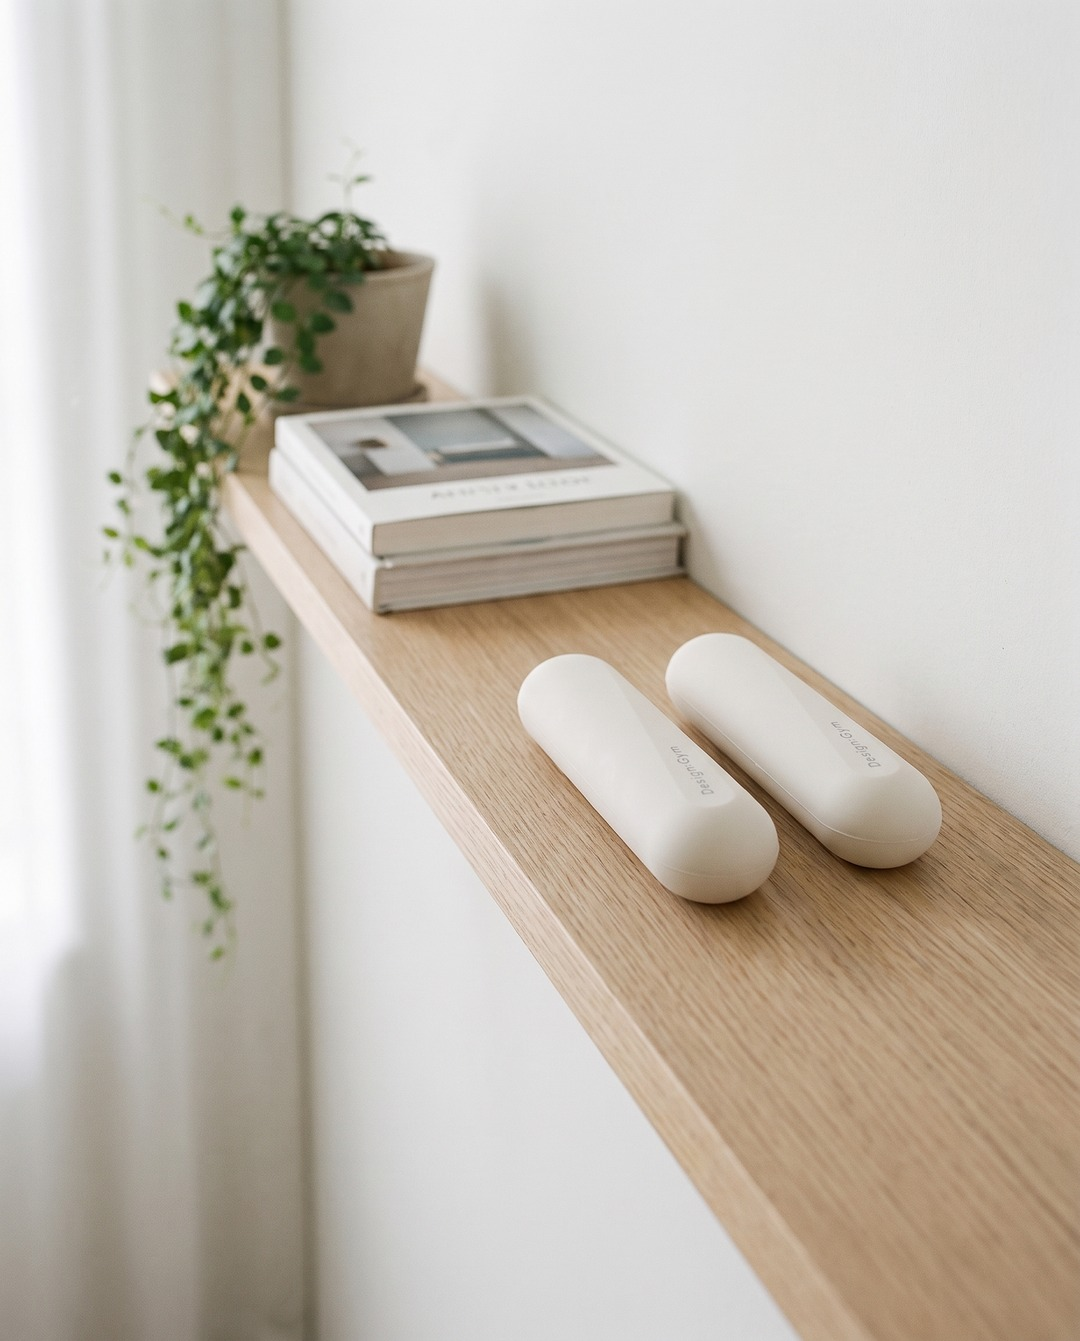
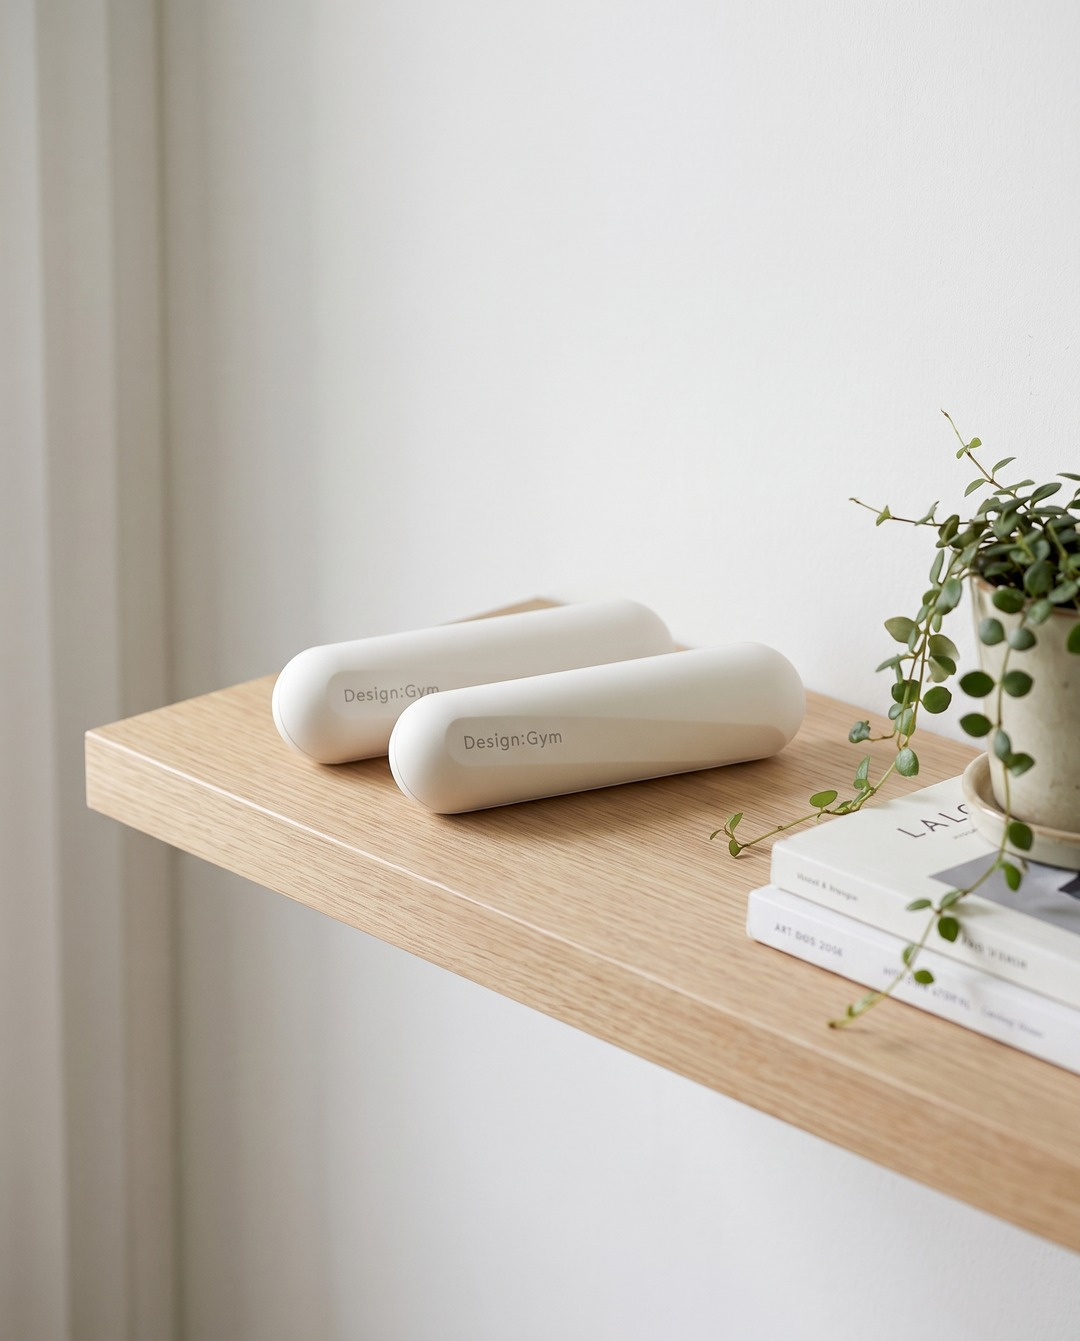
🎨 2026-09-14 월/화/금 이미지 교체 + 캡션 전면 교체
이미지 (사장님 반려 반영)
- 월: 등지름 캡슐형으로 재생성. 끝단이 부풀고 가운데가 잘록해지는
  뼈다귀 실루엣을 막으려고 "볼륨을 키워라" 대신 "4.5cm 단면이
  처음부터 끝까지 동일한 원기둥"으로 형상을 하나로 못박았다.
- 화: 매트 쪼개짐 해소. 셋째 블롭이 회보라 대신 하늘색으로 밀려
  나오던 것도 교정(실측 대조: 실물 156,146,155 / 오생성 174,186,190).
  로고가 찍힌 끝단은 크롭으로 제외.
- 금: 다운독. 발 프레임 이탈·누드톤 의상 위반 해소, 매트 끝의
  가짜 워드마크는 국소 리터치로 제거.

매트 브랜딩 규칙 변경
실물 매트에는 워드마크가 인쇄돼 있지만, 생성 모델에 그리게 하면
우리 로고가 아닌 엉뚱한 마크를 만들어 낸다. 지어낸 마크는 없느니만
못하므로 mat_logo_offframe 규칙으로 로고가 있는 끝단을 아예 프레임
밖으로 빼고, 화면 안에는 글자를 한 자도 두지 않는다.

색 보정
등록 제품(Element)이라도 색이 이웃 색조로 밀린다. 무늬는 Element에
맡기되 COLOUR CHECK 한 줄로 색만 다시 못박는다.

캡션
주차 오프셋 회전을 이번 주 5일치에 적용 — 기존 문구와 전부 다르다.

크레딧 20 사용 (최초 5장 10 + 재생성 10), 잔액 743.37

diff --git a/weekly_generate.py b/weekly_generate.py
@@ -59,6 +59,11 @@ def build_prompt(lib, product_key, scene_key):
                   "artwork, colours, proportions and thickness must match the reference product photograph "
                   "precisely. Do not invent a different print or a different colourway.",
                   "THE MAT: " + sh["mat_body"] if p["kind"] == "mat" else ""]
+        # 등록 제품이라도 색이 이웃 색조로 밀려 나오는 일이 있다(2026-09-14: 잿빛 보라 블롭이
+        # 하늘색으로 나왔다). 무늬는 Element에 맡기고, 색만 한 줄로 다시 못박는다.
+        if p["kind"] == "mat" and p.get("spec"):
+            parts += ["COLOUR CHECK - the printed artwork must read exactly as follows, with no shape or "
+                      "colour substituted: " + p["spec"]]
     elif p["kind"] == "mat":
         parts += ["THE MAT: " + sh["mat_body"], sh["mat_artwork_rule"],
                   "ARTWORK - copy the reference exactly. " + p["spec"]]
@@ -73,9 +78,12 @@ def build_prompt(lib, product_key, scene_key):
         wm = lib["products"]["mat_warm_sunlight"]
         parts += ["", f"THE MAT UNDER HER IS <<<{wm['element']}>>> - reproduce that exact registered product. "
                   + sh["mat_body"],
-                  "NO text, NO lettering, NO logo and NO blurred smudge anywhere on the mat."]
+                  sh["no_branding"]]
     if p["kind"] == "mat":
-        parts += ["", sh["no_branding"]]
+        # 실물 매트에는 워드마크가 인쇄돼 있지만, 생성 모델에 그리게 하면 우리 로고가 아닌
+        # 엉뚱한 마크를 만들어 낸다(2026-09-14 실측). 로고는 아예 프레임 밖으로 빼고,
+        # 화면 안에는 글자를 한 자도 두지 않는다.
+        parts += ["", sh["no_branding"], sh["mat_logo_offframe"]]
     parts += ["", sh["quality"]]
     return "\n".join(x for x in parts if x is not None)
 
@@ -96,15 +104,18 @@ def pool_key_for(lib, product_key):
     return "kettlebell" if "kettlebell" in product_key else "dumbbell"
 
 
-def caption_for(lib, product_key, seen, is_friday):
-    """seen: 이번 주에 그 제품군을 몇 번째로 쓰는지(0부터).
+def caption_for(lib, product_key, seen, is_friday, week_no=0):
+    """seen: 이번 주에 그 제품군을 몇 번째로 쓰는지(0부터). week_no: ISO 주차.
 
-    요일 인덱스로 고르면 같은 제품군이 두 번 나오는 주에 캡션이 겹친다
-    (2026-08-31: 매트 풀 3개에 화=1, 금=4 → 1%3==4%3 으로 화·금이 동일 문구).
-    제품군별 등장 순번으로 골라야 한 주 안에서 안 겹친다."""
+    두 가지를 동시에 피해야 한다.
+    (1) 한 주 안에서 겹침 — 같은 제품군이 두 번 나오는 주(매트 2일)에 같은 문구가 걸린다.
+        2026-08-31에 화=1, 금=4 를 요일 인덱스로 골라 1%3==4%3 으로 동일 문구가 나갔다.
+    (2) 주마다 겹침 — 순번이 매주 0부터 다시 시작하면 몇 주가 지나도 풀 앞쪽만 계속 쓴다.
+        2026-09-14 '내용이 죄다 똑같다' 지적의 원인이 이것이다.
+    그래서 주차를 오프셋으로 더해 풀 전체를 한 바퀴씩 돌린다."""
     pool_key = pool_key_for(lib, product_key)
     pool = lib["captions"][pool_key]
-    c = pool[seen % len(pool)]
+    c = pool[(week_no + seen) % len(pool)]
     body = c["c"] + (lib["friday_tail"] if is_friday else "")
     title = c["t"]
     tags = c["h"]
@@ -220,7 +231,7 @@ def main():
         url = upload_bytes(mcp, jpeg, fname)
         seen = used.get(pool_key_for(lib, pk), 0)
         used[pool_key_for(lib, pk)] = seen + 1
-        cap, tags, tt = caption_for(lib, pk, seen, day == "Friday")
+        cap, tags, tt = caption_for(lib, pk, seen, day == "Friday", monday.isocalendar()[1])
         posts[day] = {
             "date": date, "product": lib["products"][pk]["label"],
             "hook": lib["scenes"][sk]["hook"],
